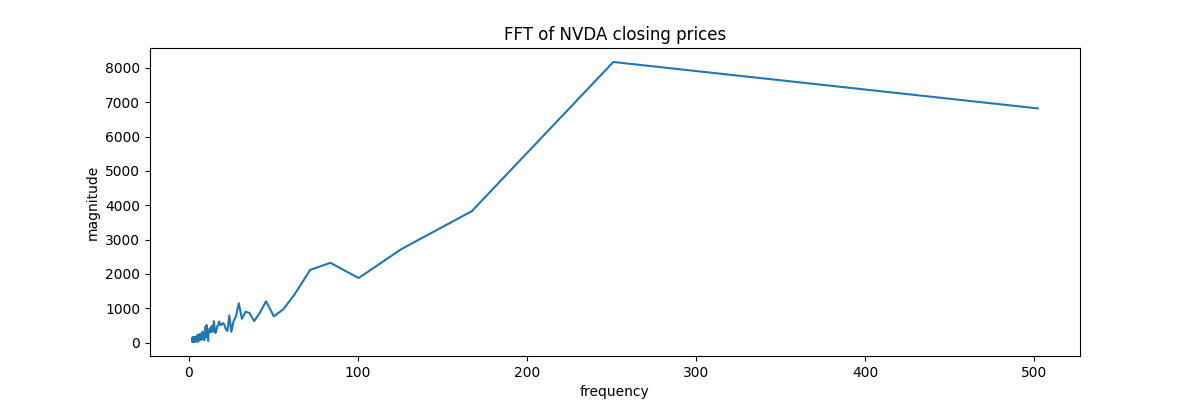
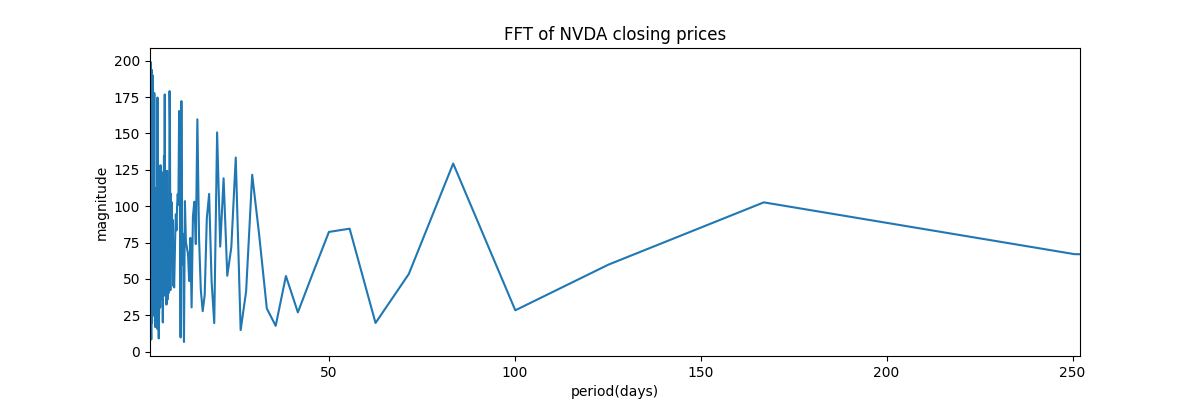
completed simple fourier analysis pipeline for a single stock

diff --git a/fft_discovery.py b/fft_discovery.py
@@ -30,17 +30,39 @@ plt.xlabel("Time (day)")
 plt.ylabel("Price")
 plt.savefig("nvda.png")
 
-close_prices = df_NVDA["NVDA"]["Close"]
-transformed_prices = np.fft.fft(close_prices)
+close_prices = df_NVDA["NVDA"]["Close"].values #NOTE: the .values coverts this data to a numpy array
+returns = np.diff(close_prices)
+
+transformed_prices = np.fft.fft(returns)
 magnitude = np.abs(transformed_prices)
 frequency = np.fft.fftfreq(len(magnitude), d = 1)
 
 #NOTE: we only want the positive frequencies
 positive_mask = frequency > 0 
 
+frequency_pos = frequency[positive_mask]
+magnitude_pos = magnitude[positive_mask]
+period = 1 / frequency_pos
+
 plt.figure(figsize=(12, 4))
-plt.plot(1/ frequency[positive_mask], magnitude[positive_mask]) #x, y coordinates by index
+plt.plot(period, magnitude_pos) #x, y coordinates by index
 plt.title("FFT of NVDA closing prices")
-plt.xlabel("frequency")
+plt.xlabel("period(days)")
 plt.ylabel("magnitude")
+plt.xlim(2, 252) # zoom: cycles in 252 days, the number of trading days in a year
 plt.savefig("nvdafft.png")
+
+cutoff = 1/20 # we want cycles longer than 20 days
+filtered = transformed_prices.copy()
+filtered[np.abs(frequency) > cutoff] = 0
+
+reconstructed = np.fft.ifft(filtered)
+reconstructed_prices = np.cumsum(reconstructed.real) + close_prices[0]
+
+plt.figure(figsize=(12,4))
+plt.plot(close_prices[1:], label="Original", alpha=0.5)
+plt.plot(reconstructed_prices, label="Filtered (>20 day cycles)", linewidth=2)
+plt.legend()
+plt.title("NVDA - Original vs Low-Pass Filtered")
+plt.savefig("nvda_filtered.png")
+